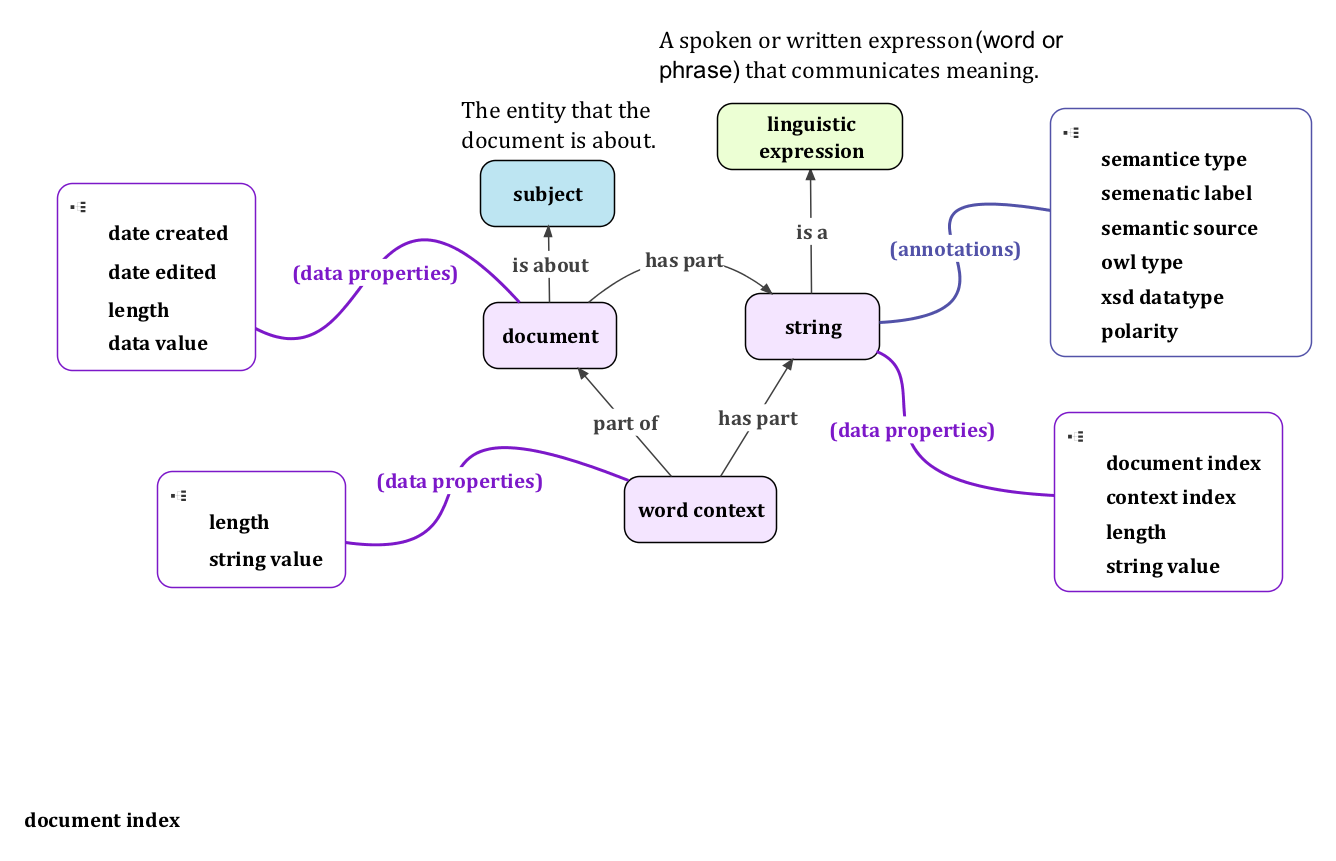
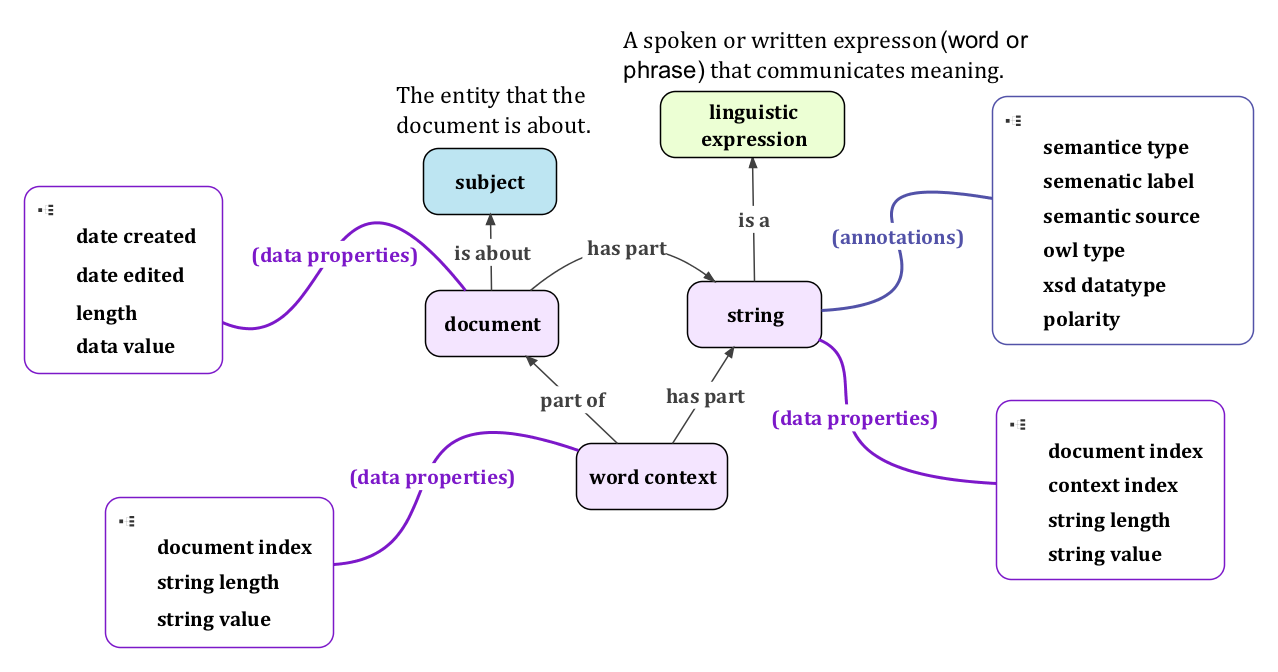
updating image

diff --git a/diagrams/document content ontology.vue b/diagrams/document content ontology.vue
@@ -1,14 +1,14 @@
 <!-- Tufts VUE 3.3.0 concept-map (document content ontology.vue) 2018-06-01 -->
 <!-- Tufts VUE: http://vue.tufts.edu/ -->
 <!-- Do Not Remove: VUE mapping @version(1.1) jar:file:/Applications/VUE.localized/VUE.app/Contents/Resources/Java/VUE.jar!/tufts/vue/resources/lw_mapping_1_1.xml -->
-<!-- Do Not Remove: Saved date Fri Jun 01 00:04:08 EDT 2018 by widuncan on platform Mac OS X 10.12.6 in JVM 1.8.0_45-b14 -->
+<!-- Do Not Remove: Saved date Fri Jun 01 00:19:36 EDT 2018 by widuncan on platform Mac OS X 10.12.6 in JVM 1.8.0_45-b14 -->
 <!-- Do Not Remove: Saving version @(#)VUE: built October 8 2015 at 1658 by tomadm on Linux 2.6.32-504.23.4.el6.x86_64 i386 JVM 1.7.0_21-b11(bits=32) -->
 <?xml version="1.0" encoding="US-ASCII"?>
 <LW-MAP xmlns:xsi="http://www.w3.org/2001/XMLSchema-instance"
     xsi:noNamespaceSchemaLocation="none" ID="0"
     label="document content ontology.vue" created="1527191480438"
     x="0.0" y="0.0" width="1.4E-45" height="1.4E-45" strokeWidth="0.0" autoSized="false">
-    <resource referenceCreated="1527825848801" size="42896"
+    <resource referenceCreated="1527826777016" size="42946"
         spec="/Users/widuncan/repos/git/Roswell-Park-Research/document-content-ontology/diagrams/document content ontology.vue"
         type="1" xsi:type="URLResource">
         <title>document content ontology.vue</title>
@@ -30,7 +30,7 @@
         <shape arcwidth="20.0" archeight="20.0" xsi:type="roundRect"/>
     </child>
     <child ID="7" label="word context" layerID="1"
-        created="1527191607404" x="524.5" y="310.5" width="101.0"
+        created="1527191607404" x="530.5" y="296.5" width="101.0"
         height="44.0" strokeWidth="1.0" autoSized="false" xsi:type="node">
         <fillColor>#F4E5FF</fillColor>
         <strokeColor>#000000</strokeColor>
@@ -111,7 +111,7 @@
     </child>
     <child ID="25"
         label="A spoken or written expresson(word or phrase) &#xa;      that communicates meaning."
-        layerID="1" created="1527204976120" x="547.0" y="9.0"
+        layerID="1" created="1527204976120" x="562.0" y="17.0"
         width="279.0" height="44.0" strokeWidth="0.0" autoSized="false" xsi:type="text">
         <strokeColor>#404040</strokeColor>
         <textColor>#000000</textColor>
@@ -141,8 +141,8 @@
         <label>A spoken or written expresson(word or phrase) 
       that communicates meaning.</label>
     </child>
-    <child ID="42" layerID="1" created="1527206607022" x="146.0"
-        y="115.0" width="132.0" height="125.0" strokeWidth="1.0"
+    <child ID="42" layerID="1" created="1527206607022" x="163.0"
+        y="125.0" width="132.0" height="125.0" strokeWidth="1.0"
         autoSized="true" xsi:type="node">
         <fillColor>#FFFFFF</fillColor>
         <strokeColor>#7C18C9</strokeColor>
@@ -263,17 +263,45 @@
         </child>
         <shape arcwidth="20.0" archeight="20.0" xsi:type="roundRect"/>
     </child>
-    <child ID="48" layerID="1" created="1527206994649" x="213.0"
-        y="307.5" width="125.0" height="77.0" strokeWidth="1.0"
+    <child ID="48" layerID="1" created="1527206994649" x="217.0"
+        y="332.5" width="152.0" height="100.0" strokeWidth="1.0"
         autoSized="true" xsi:type="node">
         <fillColor>#FFFFFF</fillColor>
         <strokeColor>#7C18C9</strokeColor>
         <textColor>#000000</textColor>
         <font>Cambria-bold-14</font>
         <URIString>http://vue.tufts.edu/rdf/resource/94a26ce1c0a8010e37ba8e59e25b2524</URIString>
-        <child ID="51" label="length" created="1527206994649" x="34.0"
-            y="24.0" width="86.0" height="22.0" strokeWidth="0.0"
-            autoSized="false" xsi:type="text">
+        <child ID="49" label="document index" created="1527206994649"
+            x="34.0" y="24.0" width="113.0" height="20.0"
+            strokeWidth="0.0" autoSized="false" xsi:type="text">
+            <strokeColor>#404040</strokeColor>
+            <textColor>#000000</textColor>
+            <font>Cambria-bold-14</font>
+            <URIString>http://vue.tufts.edu/rdf/resource/94a26ce1c0a8010e37ba8e59c42ad52a</URIString>
+            <richText>&lt;html&gt;
+  &lt;head color="#000000" style="color: #000000"&gt;
+    &lt;style type="text/css"&gt;
+      &lt;!--
+        body { margin-top: 0px; margin-bottom: 0px; margin-left: 0px; margin-right: 0px; font-size: 12; font-family: Arial; color: #000000 }
+        ol { margin-top: 6; font-family: Arial; vertical-align: middle; margin-left: 30; font-size: 12; list-style-position: outside }
+        p { margin-top: 0; margin-left: 0; margin-right: 0; margin-bottom: 0; color: #000000 }
+        ul { margin-top: 6; font-size: 12; margin-left: 30; vertical-align: middle; list-style-position: outside; font-family: Arial }
+      --&gt;
+    &lt;/style&gt;
+    
+  &lt;/head&gt;
+  &lt;body&gt;
+    &lt;p color="#000000" style="color: #000000"&gt;
+      &lt;b&gt;&lt;font style="font-size:14;" face="Cambria"&gt;document index&lt;/font&gt;&lt;/b&gt;
+    &lt;/p&gt;
+  &lt;/body&gt;
+&lt;/html&gt;
+</richText>
+            <label>document index</label>
+        </child>
+        <child ID="51" label="string length" created="1527206994649"
+            x="34.0" y="47.0" width="86.0" height="22.0"
+            strokeWidth="0.0" autoSized="false" xsi:type="text">
             <strokeColor>#404040</strokeColor>
             <textColor>#000000</textColor>
             <font>Cambria-bold-14</font>
@@ -292,15 +320,15 @@
   &lt;/head&gt;
   &lt;body&gt;
     &lt;p color="#000000" style="color: #000000"&gt;
-      &lt;b&gt;&lt;font style="font-size:14;" face="Cambria"&gt;length&lt;/font&gt;&lt;/b&gt;
+      &lt;b&gt;&lt;font style="font-size:14;" face="Cambria"&gt;string length&lt;/font&gt;&lt;/b&gt;
     &lt;/p&gt;
   &lt;/body&gt;
 &lt;/html&gt;
 </richText>
-            <label>length</label>
+            <label>string length</label>
         </child>
         <child ID="52" label="string value" created="1527206994649"
-            x="34.0" y="49.0" width="86.0" height="22.0"
+            x="34.0" y="72.0" width="86.0" height="22.0"
             strokeWidth="0.0" autoSized="false" xsi:type="text">
             <strokeColor>#404040</strokeColor>
             <textColor>#000000</textColor>
@@ -393,9 +421,9 @@
 </richText>
             <label>context index</label>
         </child>
-        <child ID="55" label="length" created="1527207079884" x="34.0"
-            y="70.0" width="86.0" height="20.0" strokeWidth="0.0"
-            autoSized="false" xsi:type="text">
+        <child ID="55" label="string length" created="1527207079884"
+            x="34.0" y="70.0" width="86.0" height="20.0"
+            strokeWidth="0.0" autoSized="false" xsi:type="text">
             <strokeColor>#404040</strokeColor>
             <textColor>#000000</textColor>
             <font>Cambria-bold-14</font>
@@ -414,12 +442,12 @@
   &lt;/head&gt;
   &lt;body&gt;
     &lt;p color="#000000" style="color: #000000"&gt;
-      &lt;b&gt;&lt;font style="font-size:14;" face="Cambria"&gt;length&lt;/font&gt;&lt;/b&gt;
+      &lt;b&gt;&lt;font style="font-size:14;" face="Cambria"&gt;string length&lt;/font&gt;&lt;/b&gt;
     &lt;/p&gt;
   &lt;/body&gt;
 &lt;/html&gt;
 </richText>
-            <label>length</label>
+            <label>string length</label>
         </child>
         <child ID="56" label="string value" created="1527207079884"
             x="34.0" y="93.0" width="86.0" height="20.0"
@@ -452,18 +480,18 @@
         <shape arcwidth="20.0" archeight="20.0" xsi:type="roundRect"/>
     </child>
     <child ID="58" label=" (data properties)" layerID="1"
-        created="1527207152676" x="337.0" y="290.95596"
-        width="191.31769" height="66.17941" strokeWidth="2.0"
+        created="1527207152676" x="368.0" y="288.70413"
+        width="164.94012" height="89.85925" strokeWidth="2.0"
         autoSized="false" controlCount="2" arrowState="0" xsi:type="link">
         <strokeColor>#7C18C9</strokeColor>
         <textColor>#7C18C9</textColor>
         <font>Cambria-bold-14</font>
         <URIString>http://vue.tufts.edu/rdf/resource/94a55328c0a8010e37ba8e593d6b6584</URIString>
-        <point1 x="527.3177" y="313.59393"/>
-        <point2 x="338.0" y="354.59204"/>
+        <point1 x="531.9401" y="301.6371"/>
+        <point2 x="369.0" y="377.5634"/>
         <ID1 xsi:type="node">7</ID1>
         <ID2 xsi:type="node">48</ID2>
-        <ctrlPoint0 x="345.4003" y="241.46352" xsi:type="point"/>
+        <ctrlPoint0 x="387.58255" y="252.01826" xsi:type="point"/>
         <ctrlPoint1 x="461.42636" y="371.5598" xsi:type="point"/>
     </child>
     <child ID="59" label=" (data properties)" layerID="1"
@@ -482,19 +510,19 @@
         <ctrlPoint1 x="659.73334" y="315.54282" xsi:type="point"/>
     </child>
     <child ID="60" label=" (data properties) " layerID="1"
-        created="1527207199712" x="277.0" y="151.83951" width="178.4592"
-        height="68.0347" strokeWidth="2.0" autoSized="false"
-        controlCount="2" arrowState="0" xsi:type="link">
+        created="1527207199712" x="294.0" y="148.52417"
+        width="164.06189" height="72.33833" strokeWidth="2.0"
+        autoSized="false" controlCount="2" arrowState="0" xsi:type="link">
         <strokeColor>#7C18C9</strokeColor>
         <textColor>#7C18C9</textColor>
         <font>Cambria-bold-14</font>
         <URIString>http://vue.tufts.edu/rdf/resource/94a55328c0a8010e37ba8e59a3e92604</URIString>
-        <point1 x="454.4592" y="194.5"/>
-        <point2 x="278.0" y="212.20206"/>
+        <point1 x="457.0619" y="194.5"/>
+        <point2 x="295.0" y="216.01962"/>
         <ID1 xsi:type="node">6</ID1>
         <ID2 xsi:type="node">42</ID2>
-        <ctrlPoint0 x="345.47958" y="74.86663" xsi:type="point"/>
-        <ctrlPoint1 x="359.7416" y="255.18086" xsi:type="point"/>
+        <ctrlPoint0 x="357.47958" y="68.86663" xsi:type="point"/>
+        <ctrlPoint1 x="371.7416" y="249.18086" xsi:type="point"/>
     </child>
     <child ID="66" layerID="1" created="1527207340097" x="808.0"
         y="65.5" width="174.0" height="165.0" strokeWidth="1.0"
@@ -690,7 +718,7 @@
         <ctrlPoint1 x="660.1451" y="108.23252" xsi:type="point"/>
     </child>
     <child ID="72" label="The entity that the document is about."
-        layerID="1" created="1527207889209" x="415.5" y="55.5"
+        layerID="1" created="1527207889209" x="410.5" y="53.5"
         width="132.0" height="45.0" strokeWidth="0.0" autoSized="false" xsi:type="text">
         <strokeColor>#404040</strokeColor>
         <textColor>#000000</textColor>
@@ -719,56 +747,28 @@
         <label>The entity that the document is about.</label>
     </child>
     <child ID="76" label=" part of " layerID="1" created="1527825296024"
-        x="493.06033" y="238.0" width="63.379333" height="73.00006"
+        x="496.97058" y="238.0" width="61.558807" height="59.0"
         strokeWidth="1.0" autoSized="false" controlCount="0"
         arrowState="2" xsi:type="link">
         <strokeColor>#404040</strokeColor>
         <textColor>#404040</textColor>
         <font>Cambria-bold-14</font>
         <URIString>http://vue.tufts.edu/rdf/resource/b983eb81c0a8010e048e7c36b072d4ea</URIString>
-        <point1 x="555.9397" y="310.50006"/>
-        <point2 x="493.56036" y="238.5"/>
+        <point1 x="558.0294" y="296.5"/>
+        <point2 x="497.4706" y="238.5"/>
         <ID1 xsi:type="node">7</ID1>
         <ID2 xsi:type="node">6</ID2>
     </child>
-    <child ID="49" label="document index" layerID="1"
-        created="1527206994649" x="124.0" y="530.5" width="113.0"
-        height="20.0" strokeWidth="0.0" autoSized="false" xsi:type="text">
-        <strokeColor>#404040</strokeColor>
-        <textColor>#000000</textColor>
-        <font>Cambria-bold-14</font>
-        <URIString>http://vue.tufts.edu/rdf/resource/94a26ce1c0a8010e37ba8e59c42ad52a</URIString>
-        <richText>&lt;html&gt;
-  &lt;head color="#000000" style="color: #000000"&gt;
-    &lt;style type="text/css"&gt;
-      &lt;!--
-        body { margin-top: 0px; margin-bottom: 0px; margin-left: 0px; margin-right: 0px; font-size: 12; font-family: Arial; color: #000000 }
-        ol { margin-top: 6; font-family: Arial; vertical-align: middle; margin-left: 30; font-size: 12; list-style-position: outside }
-        p { margin-top: 0; margin-left: 0; margin-right: 0; margin-bottom: 0; color: #000000 }
-        ul { margin-top: 6; font-size: 12; margin-left: 30; vertical-align: middle; list-style-position: outside; font-family: Arial }
-      --&gt;
-    &lt;/style&gt;
-    
-  &lt;/head&gt;
-  &lt;body&gt;
-    &lt;p color="#000000" style="color: #000000"&gt;
-      &lt;b&gt;&lt;font style="font-size:14;" face="Cambria"&gt;document index&lt;/font&gt;&lt;/b&gt;
-    &lt;/p&gt;
-  &lt;/body&gt;
-&lt;/html&gt;
-</richText>
-        <label>document index</label>
-    </child>
     <child ID="77" label=" has part " layerID="1"
-        created="1527825493785" x="583.75" y="232.0" width="57.0"
-        height="78.99994" strokeWidth="1.0" autoSized="false"
+        created="1527825493785" x="587.25" y="232.0" width="56.0"
+        height="65.0" strokeWidth="1.0" autoSized="false"
         controlCount="0" arrowState="2" xsi:type="link">
         <strokeColor>#404040</strokeColor>
         <textColor>#404040</textColor>
         <font>Cambria-bold-14</font>
         <URIString>http://vue.tufts.edu/rdf/resource/b983eb82c0a8010e048e7c367091b132</URIString>
-        <point1 x="588.43445" y="310.49994"/>
-        <point2 x="636.06555" y="232.5"/>
+        <point1 x="594.95374" y="296.5"/>
+        <point2 x="635.5463" y="232.5"/>
         <ID1 xsi:type="node">7</ID1>
         <ID2 xsi:type="node">8</ID2>
     </child>
